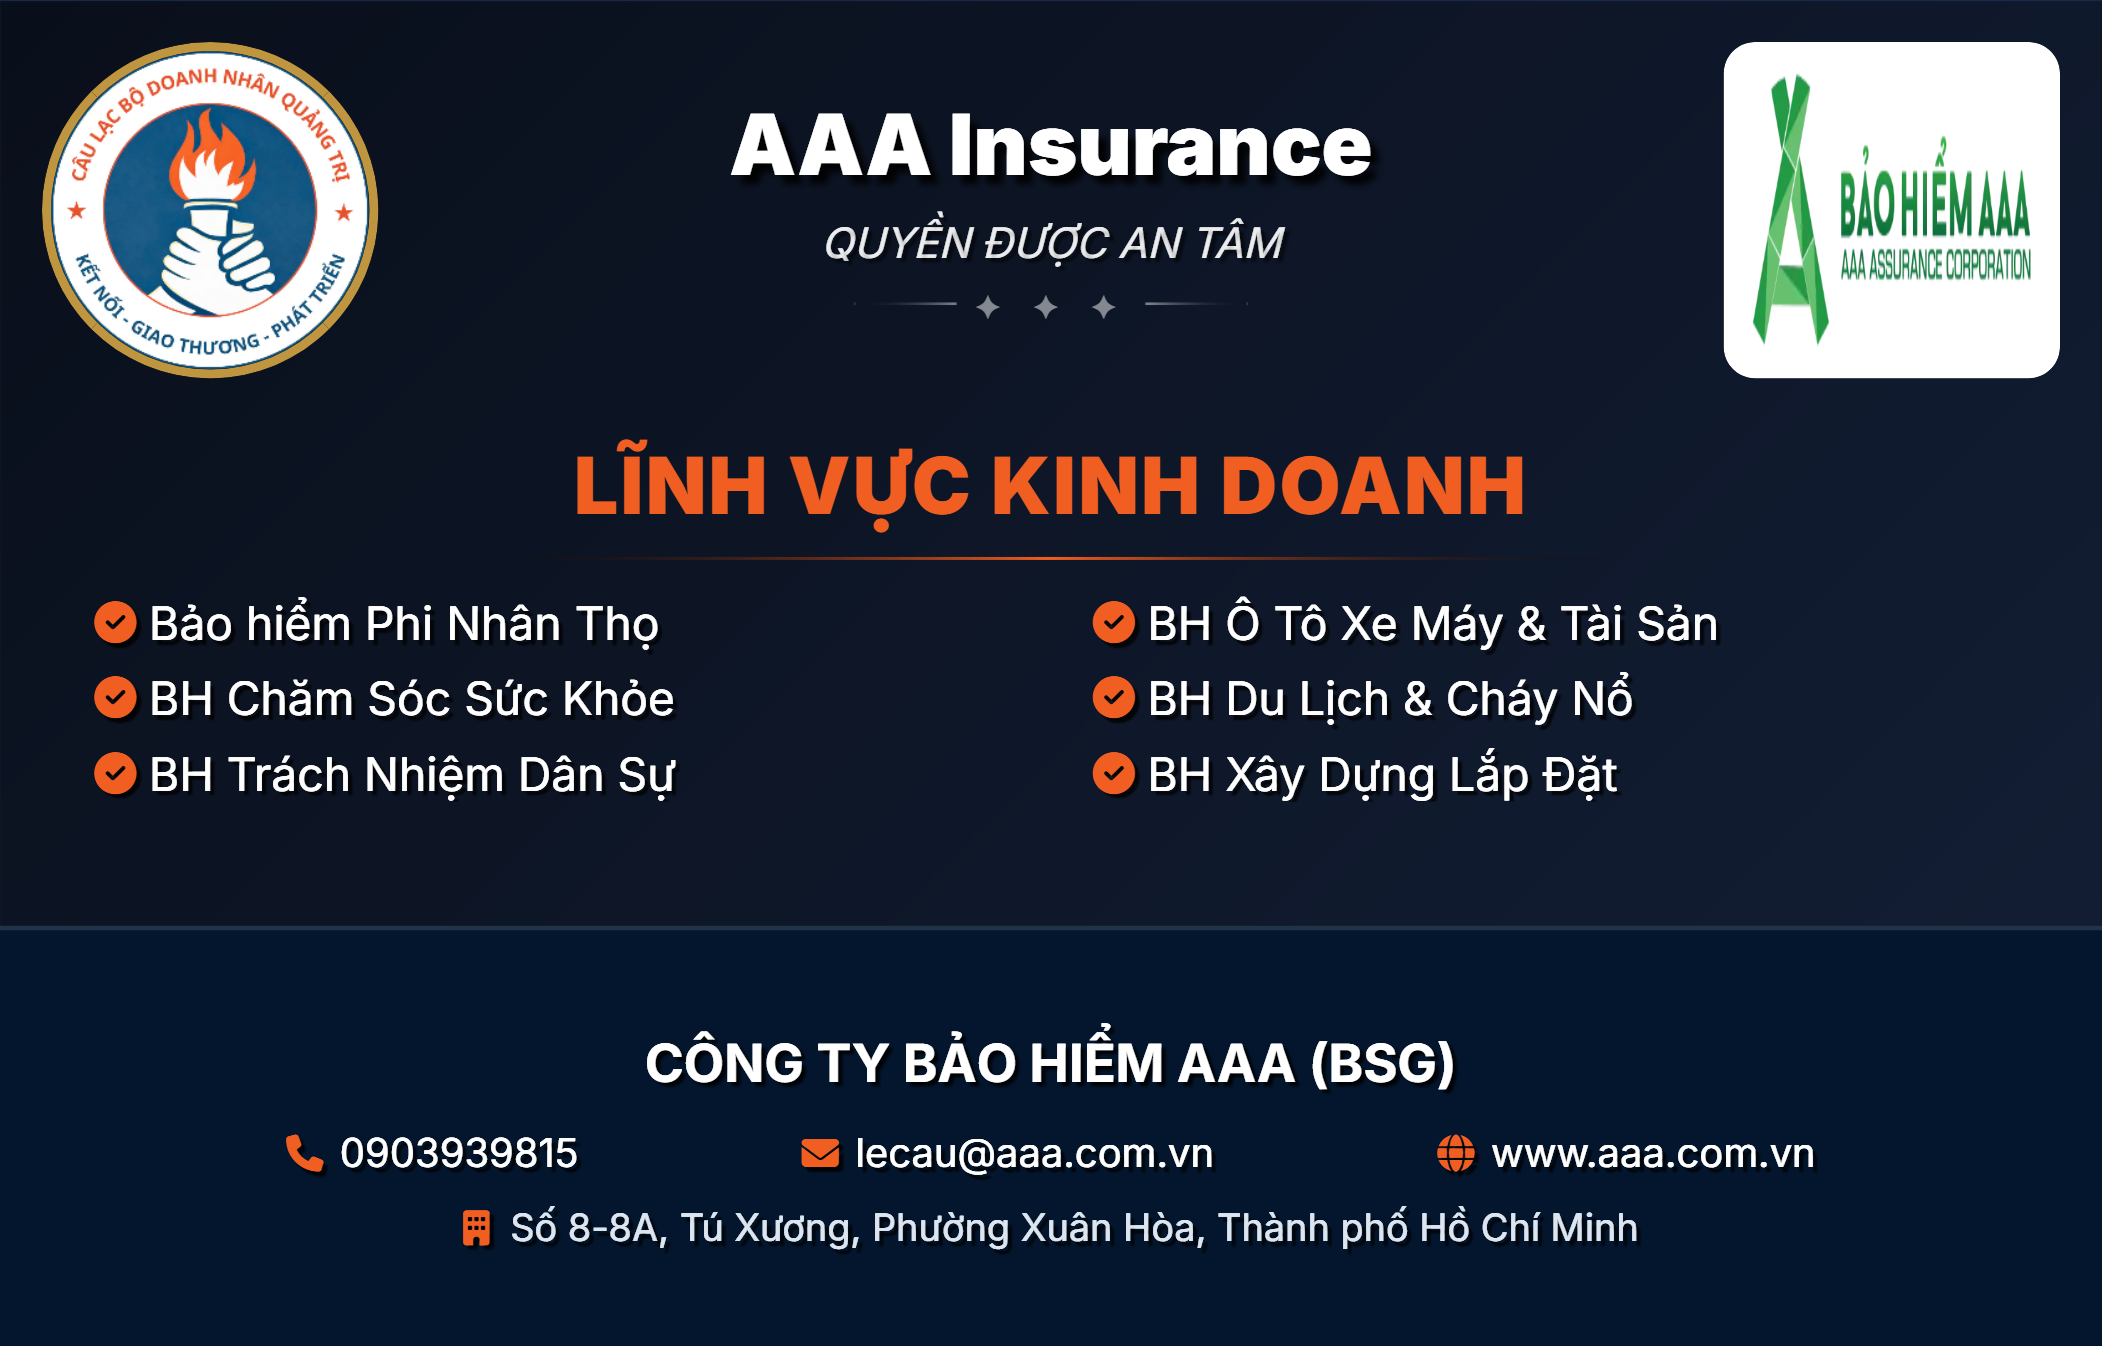
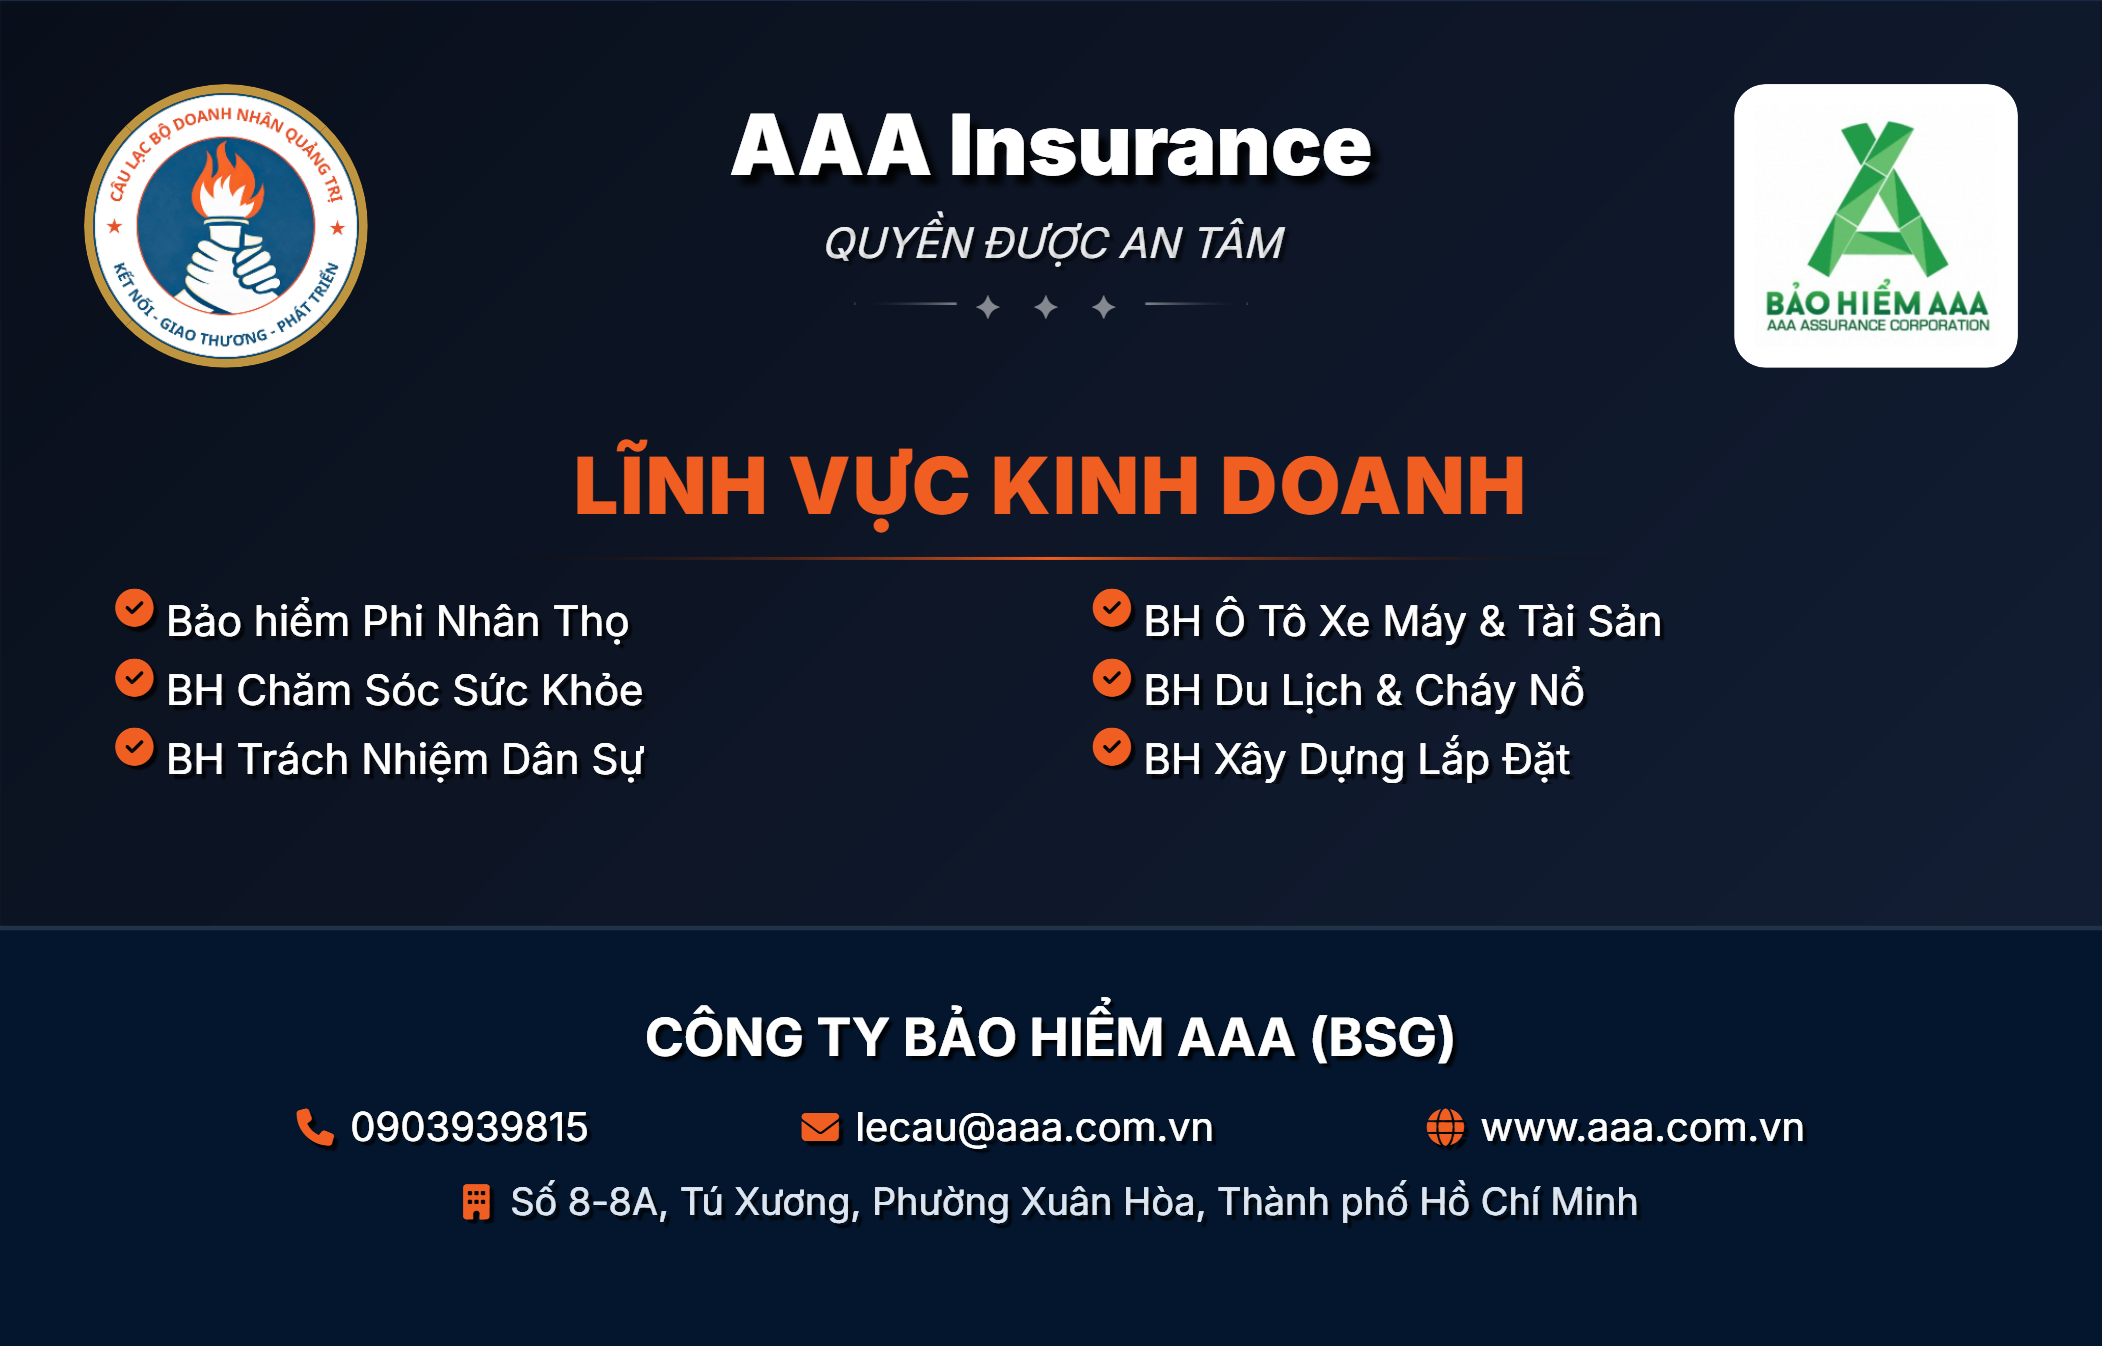
Bizcards-NFC

diff --git a/m copy.html b/m copy.html
@@ -147,18 +147,8 @@
     #bizcard-front .bc-body{padding-bottom:20cqw}
 
     /* Corner squares: 20cqw × 20cqw, transparent, uniform padding */
-    .bc-corner{width:20cqw;height:20cqw;flex-shrink:0;background:transparent;display:flex;align-items:center;justify-content:center;overflow:hidden;padding:2.5cqw}
+    .bc-corner{width:20cqw;height:20cqw;flex-shrink:0;background:transparent;display:flex;align-items:center;justify-content:center;overflow:hidden;padding:2cqw}
     .bc-corner img{max-width:100%;max-height:100%;object-fit:contain;display:block}
-    /* Safe zone 4cqw các cạnh ngoài — Row A (front & back) */
-    .bc-row:first-child .bc-corner,.bb-row-a .bc-corner{padding-top:4cqw}
-    .bc-row:first-child .bc-corner:first-child,.bb-row-a .bc-corner:first-child{padding-left:4cqw}
-    .bc-row:first-child .bc-corner:last-child,.bb-row-a .bc-corner:last-child{padding-right:4cqw}
-    .bc-row:first-child .bc-row-mid{padding-top:4cqw}
-    /* Safe zone 4cqw — Row C bottom (front card) */
-    #bizcard-front .bc-row:last-child .bc-corner{padding-bottom:4cqw}
-    #bizcard-front .bc-row:last-child .bc-corner:first-child{padding-left:4cqw}
-    #bizcard-front .bc-row:last-child .bc-corner:last-child{padding-right:4cqw}
-    #bizcard-front .bc-row:last-child .bc-row-mid{padding-bottom:4cqw}
     #bf-club-logo,#bb-club-logo{border-radius:50%;border:2px solid #BF953F;box-shadow:0 0 0 1px #FCF6BA,0 0 12px rgba(191,149,63,.7),0 0 22px rgba(255,215,0,.35)}
 
     /* Avatar (A3): rounded + viền trắng ngoài — radius đồng nhất 1.5cqw */
@@ -175,18 +165,18 @@
     /* A2: middle of top row — centered */
     .bc-row-mid{flex:1;display:flex;flex-direction:column;align-items:center;justify-content:center;padding:0 1.5cqw;overflow:hidden;text-align:center}
     /* C2: middle of bottom row — socials top, NFC bottom */
-    #bf-c2{justify-content:space-between;padding-top:2.5cqw;padding-bottom:4cqw}
+    #bf-c2{justify-content:space-between;padding-top:2.5cqw;padding-bottom:2.5cqw}
 
     /* A2 text */
     .bc-member-label{font-size:2.2cqw;font-weight:700;color:rgba(255,255,255,.88);letter-spacing:.3px;text-shadow:1px 1px 3px rgba(0,0,0,.9);white-space:nowrap;overflow:hidden;text-overflow:ellipsis;width:100%}
-    .bc-member-id{font-size:2.4cqw;font-weight:600;color:rgba(255,255,255,.7);text-shadow:1px 1px 3px rgba(0,0,0,.9);white-space:nowrap}
+    .bc-member-id{font-size:2.3cqw;font-weight:600;color:rgba(255,255,255,.7);text-shadow:1px 1px 3px rgba(0,0,0,.9);white-space:nowrap}
     .bc-a2-divider{display:flex;align-items:center;justify-content:center;gap:1.2cqw;margin:.5cqw auto 0;width:80%}
     .bc-a2-divider::before,.bc-a2-divider::after{content:'';flex:1;height:1px;background:linear-gradient(90deg,transparent,rgba(255,255,255,.6))}
     .bc-a2-divider::after{background:linear-gradient(90deg,rgba(255,255,255,.6),transparent)}
     .bc-a2-divider span{width:1.4cqw;height:1.4cqw;background:rgba(255,255,255,.7);transform:rotate(45deg);flex-shrink:0;box-shadow:0 0 4px rgba(255,255,255,.4)}
 
     /* B: body, flex:1 fills space between rows */
-    .bc-body{flex:1;display:flex;flex-direction:column;align-items:center;justify-content:center;padding:.4cqw 4cqw;text-align:center;gap:.4cqw}
+    .bc-body{flex:1;display:flex;flex-direction:column;align-items:center;justify-content:center;padding:.4cqw 3cqw;text-align:center;gap:.4cqw}
     .bc-name{font-size:5.5cqw;font-weight:900;text-transform:uppercase;text-shadow:2px 2px 6px rgba(0,0,0,.9);letter-spacing:.4px;line-height:1.1;width:100%}
     .bc-position{font-size:2.5cqw;font-weight:600;color:#cbd5e1;text-shadow:1px 1px 3px rgba(0,0,0,.9)}
     .bc-company{font-size:2.6cqw;font-weight:700;text-shadow:1px 1px 3px rgba(0,0,0,.9);width:100%;white-space:nowrap;overflow:hidden;text-overflow:ellipsis}
@@ -220,14 +210,14 @@
     .bb-a2-ornament::after{background:linear-gradient(90deg,rgba(255,255,255,.7),transparent)}
     .bb-a2-ornament span{font-size:1.6cqw;letter-spacing:.5cqw;color:rgba(255,255,255,.7);line-height:1}
     /* Row B: business sectors */
-    .bb-body{flex:1;display:flex;flex-direction:column;padding:0 4cqw 1cqw;min-height:0;overflow:hidden}
+    .bb-body{flex:1;display:flex;flex-direction:column;padding:0 3cqw 1cqw;min-height:0;overflow:hidden}
     .bb-biz-title{font-size:3.75cqw;color:var(--secondary);font-weight:900;text-align:center;text-transform:uppercase;letter-spacing:.5px;margin-bottom:.5cqw}
     .bb-biz-divider{width:60%;height:1px;background:linear-gradient(90deg,transparent,var(--secondary),transparent);margin:0 auto 1.2cqw}
     .bb-services-grid{display:grid;grid-template-columns:1fr 1fr;gap:.5cqw 1cqw;overflow:hidden}
-    .bb-service-item{display:flex;gap:.6cqw;font-size:2cqw;line-height:1.4;text-shadow:1px 1px 2px rgba(0,0,0,.8);align-items:center;padding-left:1.5cqw;align-items:flex-start}
-    .bb-service-item i{color:var(--secondary);font-size:1.8cqw;flex-shrink:0}
+    .bb-service-item{display:flex;gap:.6cqw;font-size:2.2cqw;line-height:1.4;text-shadow:1px 1px 2px rgba(0,0,0,.8);align-items:center;padding-left:1.5cqw}
+    .bb-service-item i{color:var(--secondary);font-size:2cqw;flex-shrink:0}
     /* Row C: full-width contact strip, height 30% card width */
-    .bb-footer{flex-shrink:0;height:20cqw;background:var(--primary);backdrop-filter:blur(6px);border-top:1px solid rgba(255,255,255,.12);display:flex;flex-direction:column;align-items:center;justify-content:center;padding:1.5cqw 4cqw 4cqw;text-align:center;gap:.7cqw}
+    .bb-footer{flex-shrink:0;height:20cqw;background:var(--primary);backdrop-filter:blur(6px);border-top:1px solid rgba(255,255,255,.12);display:flex;flex-direction:column;align-items:center;justify-content:center;padding:1.5cqw 3cqw;text-align:center;gap:.7cqw}
     .bb-co-name{font-size:2.5cqw;font-weight:700;text-shadow:1px 1px 3px rgba(0,0,0,.9);width:100%;white-space:nowrap;overflow:hidden;text-overflow:ellipsis}
     .bb-contact-row{display:flex;flex-direction:row;align-items:center;justify-content:space-evenly;width:100%}
     .bb-contact-item{display:flex;align-items:center;gap:.8cqw;font-size:1.9cqw;text-shadow:1px 1px 2px rgba(0,0,0,.8);white-space:nowrap;color:#fff;text-decoration:none}
